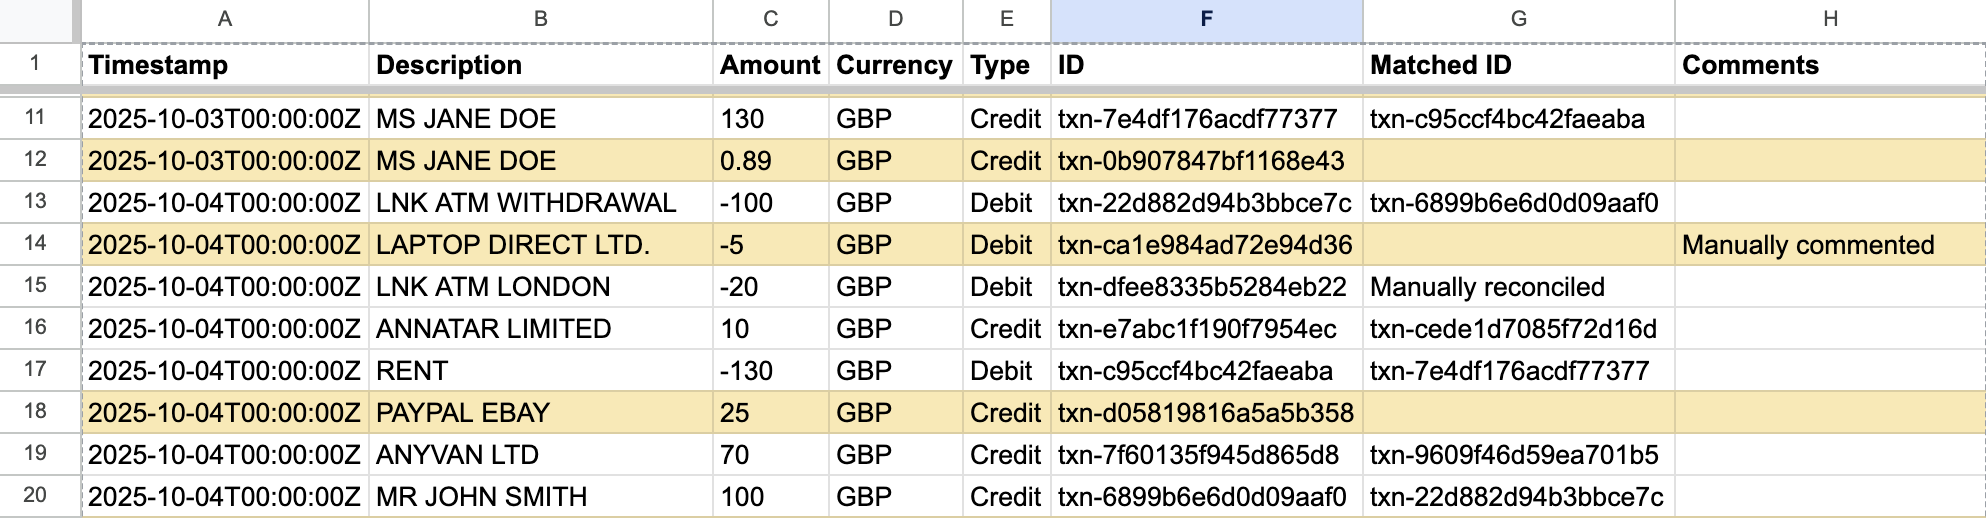
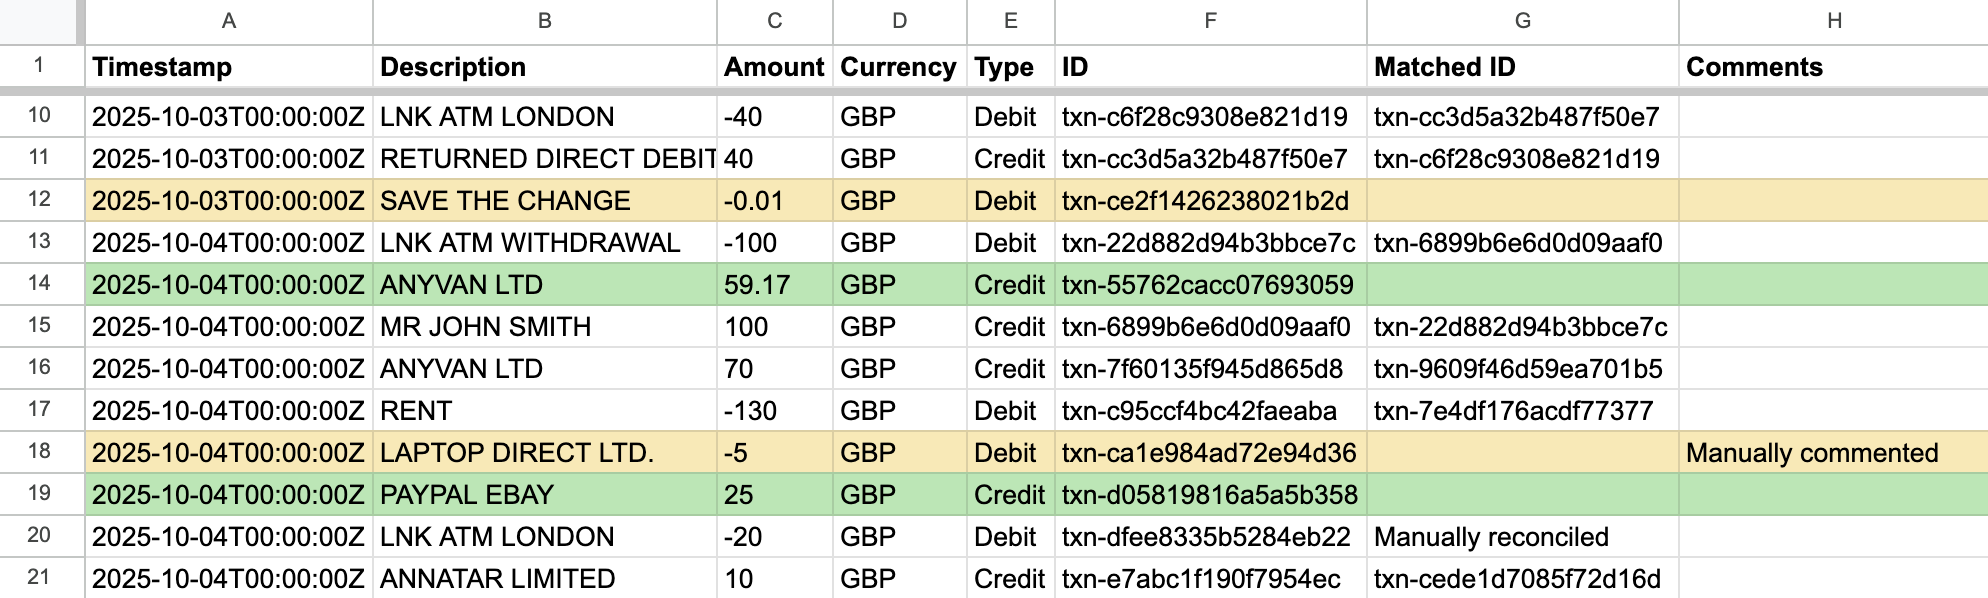
sync: Colour unmatched credits green
So that it's easier to see how many unreconciled debits there are to be
paid off. Also makes it easier to ignore partial refunds from
Supermarkets deliveries.

diff --git a/src/sheets/formatting.rs b/src/sheets/formatting.rs
@@ -55,15 +55,12 @@ pub(super) fn freeze_header_rule(sheet_id: i32) -> Request {
 }
 
 /// Highlight rows where "ID" is filled but "Matched ID" is blank.
+/// Unmatched debits are highlighted yellow, unmatched credits are highlighted green.
 pub(super) fn highlight_rules(sheet_id: i32, sheet: &Sheet) -> Result<Vec<Request>> {
     let mut requests = Vec::new();
 
-    let light_yellow = Color {
-        red: Some(0.988),
-        green: Some(0.910),
-        blue: Some(0.698),
-        alpha: Some(1.0),
-    };
+    let type_column = Transaction::get_column_letter("Type")
+        .ok_or_else(|| AppError::Sheets("Type column not found".to_string()))?;
     let id_column = Transaction::get_column_letter("ID")
         .ok_or_else(|| AppError::Sheets("ID column not found".to_string()))?;
     let matched_id_column = Transaction::get_column_letter("Matched ID")
@@ -84,38 +81,64 @@ pub(super) fn highlight_rules(sheet_id: i32, sheet: &Sheet) -> Result<Vec<Reques
         });
     }
 
-    requests.push(Request {
-        add_conditional_format_rule: Some(AddConditionalFormatRuleRequest {
-            index: Some(0),
-            rule: Some(ConditionalFormatRule {
-                ranges: Some(vec![GridRange {
-                    sheet_id: Some(sheet_id),
-                    start_row_index: Some(1), // Skip header row
-                    end_row_index: None,
-                    start_column_index: None,
-                    end_column_index: None,
-                }]),
-                boolean_rule: Some(BooleanRule {
-                    condition: Some(BooleanCondition {
-                        type_: Some("CUSTOM_FORMULA".to_string()),
-                        values: Some(vec![ConditionValue {
-                            user_entered_value: Some(format!(
-                                "=AND(NOT(ISBLANK(${}2)), ISBLANK(${}2))",
-                                id_column, matched_id_column,
-                            )),
+    let rules = [
+        (
+            "Credit",
+            Color {
+                // Light green
+                red: Some(0.698),
+                green: Some(0.910),
+                blue: Some(0.698),
+                alpha: Some(1.0),
+            },
+        ),
+        (
+            "Debit",
+            Color {
+                // Light yellow
+                red: Some(0.988),
+                green: Some(0.910),
+                blue: Some(0.698),
+                alpha: Some(1.0),
+            },
+        ),
+    ];
+
+    // Add conditional format rules for each transaction type
+    for (index, (transaction_type, colour)) in rules.iter().enumerate() {
+        requests.push(Request {
+            add_conditional_format_rule: Some(AddConditionalFormatRuleRequest {
+                index: Some(index as i32),
+                rule: Some(ConditionalFormatRule {
+                    ranges: Some(vec![GridRange {
+                        sheet_id: Some(sheet_id),
+                        start_row_index: Some(1), // Skip header row
+                        end_row_index: None,
+                        start_column_index: None,
+                        end_column_index: None,
+                    }]),
+                    boolean_rule: Some(BooleanRule {
+                        condition: Some(BooleanCondition {
+                            type_: Some("CUSTOM_FORMULA".to_string()),
+                            values: Some(vec![ConditionValue {
+                                user_entered_value: Some(format!(
+                                    "=AND(NOT(ISBLANK(${}2)), ISBLANK(${}2), ${}2=\"{}\")",
+                                    id_column, matched_id_column, type_column, transaction_type,
+                                )),
+                                ..Default::default()
+                            }]),
+                        }),
+                        format: Some(CellFormat {
+                            background_color: Some(colour.clone()),
                             ..Default::default()
-                        }]),
+                        }),
                     }),
-                    format: Some(CellFormat {
-                        background_color: Some(light_yellow),
-                        ..Default::default()
-                    }),
+                    ..Default::default()
                 }),
-                ..Default::default()
             }),
-        }),
-        ..Default::default()
-    });
+            ..Default::default()
+        });
+    }
 
     Ok(requests)
 }
@@ -205,7 +228,7 @@ mod tests {
         };
 
         let reqs = highlight_rules(123, &sheet).unwrap();
-        assert_eq!(reqs.len(), 3, "should have 3 requests, got {:?}", reqs);
+        assert_eq!(reqs.len(), 4, "should have 4 requests (2 deletes + 2 adds)");
         let mut reqs = reqs.iter();
 
         let req = reqs
@@ -226,12 +249,14 @@ mod tests {
         assert_eq!(req.sheet_id, Some(123));
         assert_eq!(req.index, Some(0));
 
+        // First add request (Credit - green)
         let req = reqs
             .next()
             .unwrap()
             .add_conditional_format_rule
             .as_ref()
             .unwrap();
+        assert_eq!(req.index, Some(0));
         let rule = req.rule.as_ref().unwrap();
         let boolean_rule = rule.boolean_rule.as_ref().unwrap();
         let condition = boolean_rule.condition.as_ref().unwrap();
@@ -242,6 +267,27 @@ mod tests {
             .as_ref()
             .unwrap();
         assert!(formula.contains("ISBLANK"));
+        assert!(formula.contains("Credit"));
+
+        // Second add request (Debit - yellow)
+        let req = reqs
+            .next()
+            .unwrap()
+            .add_conditional_format_rule
+            .as_ref()
+            .unwrap();
+        assert_eq!(req.index, Some(1));
+        let rule = req.rule.as_ref().unwrap();
+        let boolean_rule = rule.boolean_rule.as_ref().unwrap();
+        let condition = boolean_rule.condition.as_ref().unwrap();
+
+        assert_eq!(condition.type_.as_deref(), Some("CUSTOM_FORMULA"));
+        let formula = condition.values.as_ref().unwrap()[0]
+            .user_entered_value
+            .as_ref()
+            .unwrap();
+        assert!(formula.contains("ISBLANK"));
+        assert!(formula.contains("Debit"));
     }
 
     #[test]
